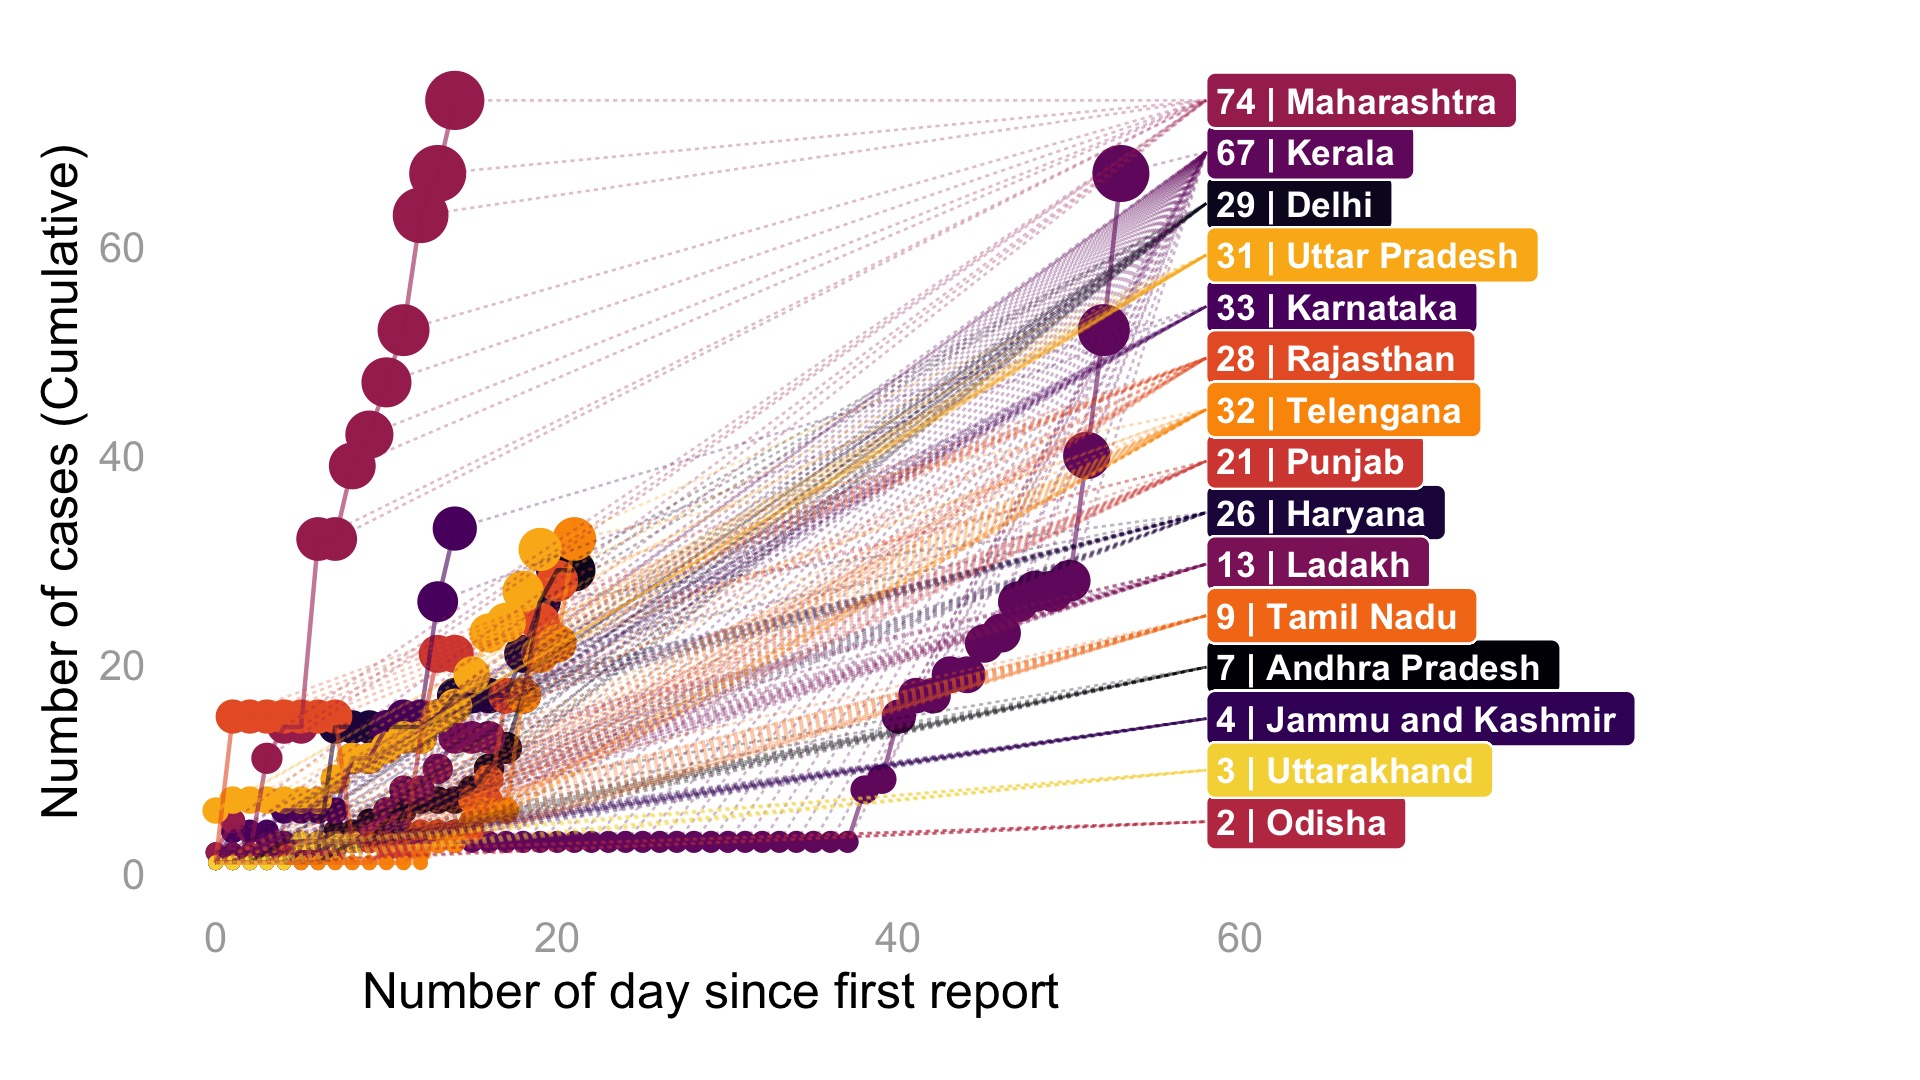
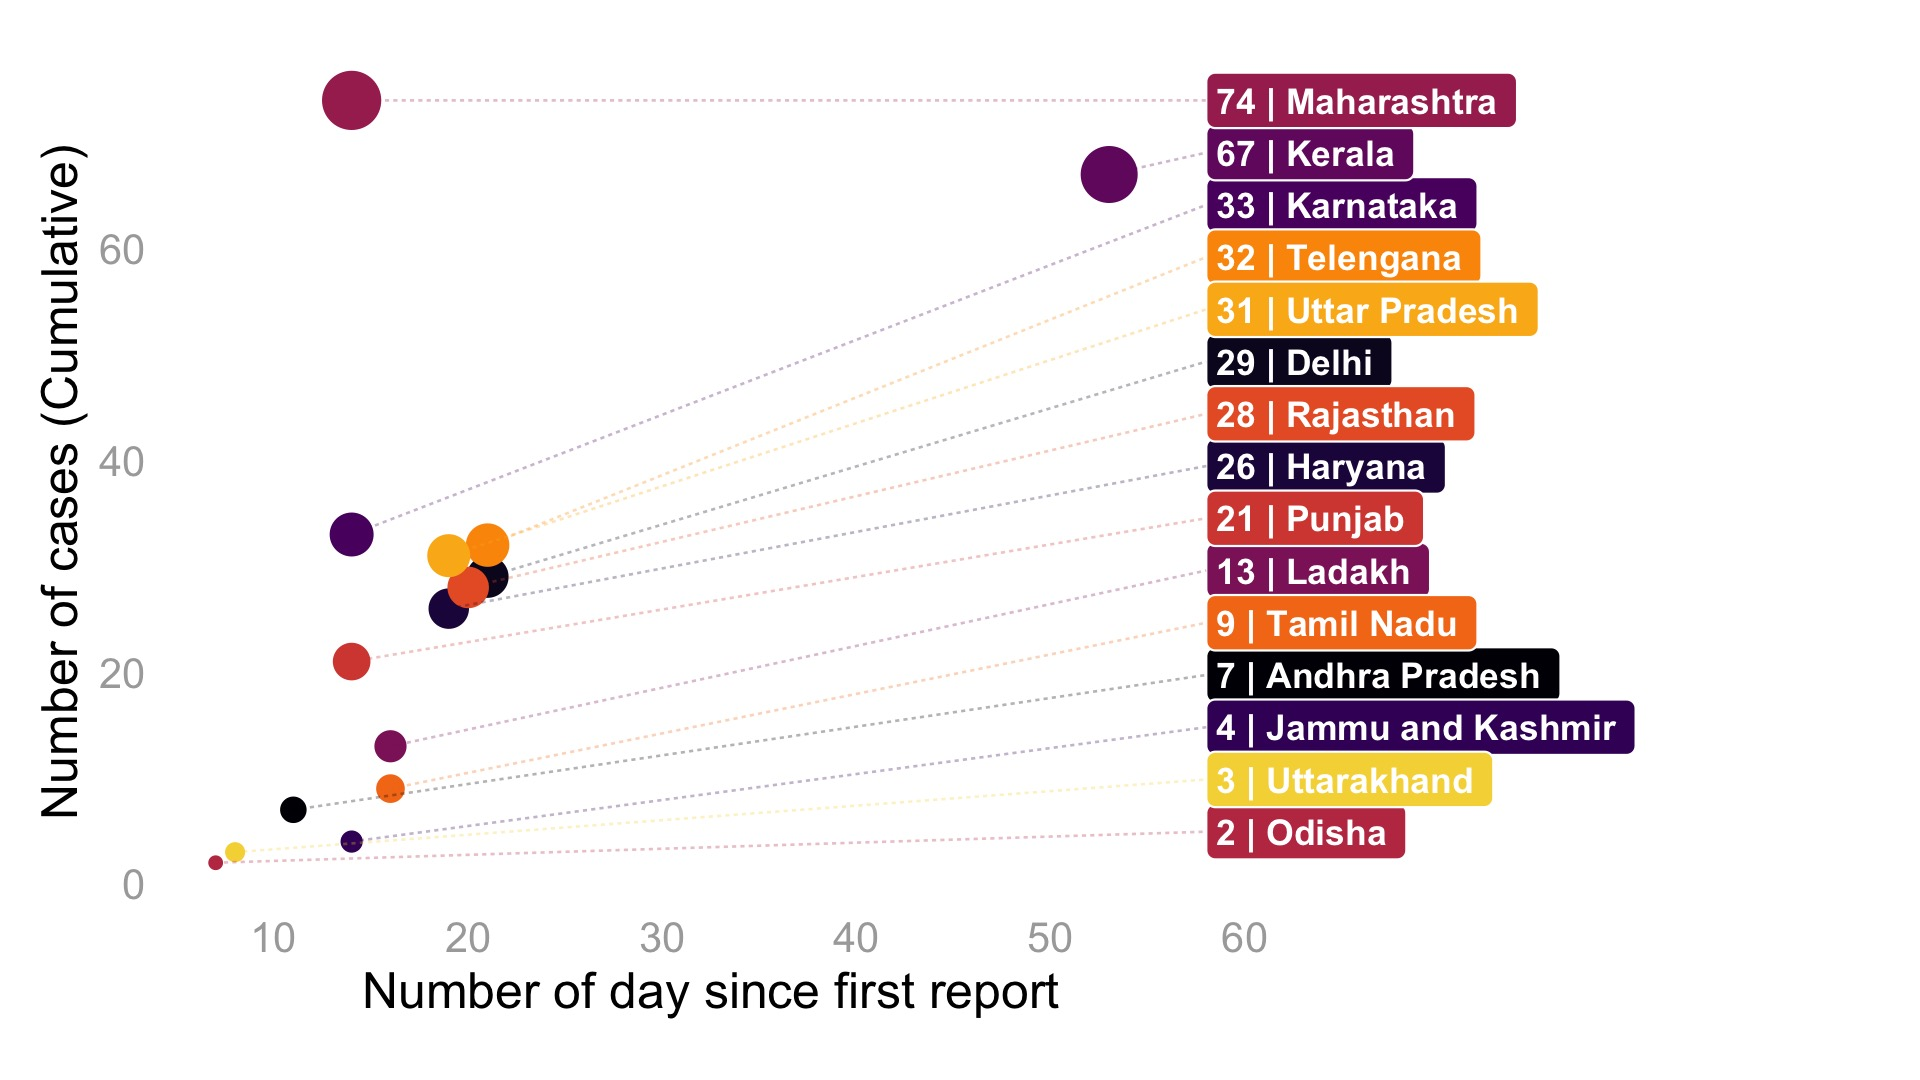
updated plot and animation

diff --git a/README.md b/README.md
@@ -20,4 +20,8 @@ d <- read_csv("https://raw.githubusercontent.com/rahulnyk/COVID19_IndiaData/mast
 
 ### Output Animation 
 
-![Output Animation](https://github.com/rahulnyk/COVID19_IndiaData/blob/master/IndiaCovid192020-03-21_1.gif)
+![Output Animation](https://github.com/rahulnyk/COVID19_IndiaData/blob/master/output.gif)
+
+### Output Plot 
+
+![Output Animation](https://github.com/rahulnyk/COVID19_IndiaData/blob/master/output.jpg)
